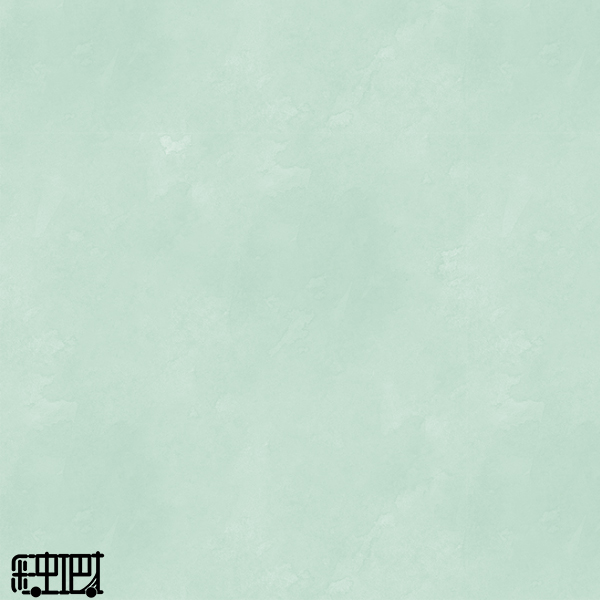
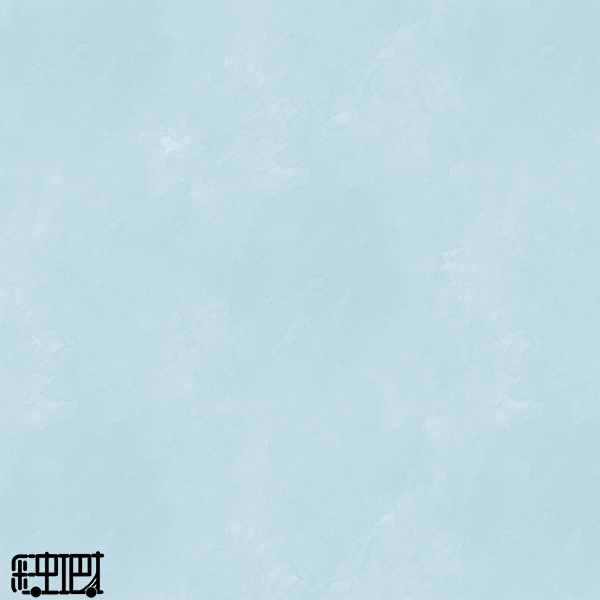
Add background pictures; add "Loading" tip

diff --git a/js/main.js b/js/main.js
@@ -45,6 +45,12 @@ $(function() {
 	var BOTTOM_URL = "img/car/bg/#1.png";
 	var TOP_URL = "img/car/fg/#1.png";
 	var AVATAR_SIZE = 256;
+	var LOADED_TEST_INTERVAL = 100;
+	var unfinished = 0;
+
+	function finishOne() {
+		unfinished--;
+	}
 
 	var avatarImg = undefined;
 
@@ -52,9 +58,7 @@ $(function() {
 		return "url(#1)".replace("#1", url);
 	}
 
-	var silenceMode = false;
-
-	function refreshAvatar() {
+	function doRefreshAvatar() {
 		var canvas = $("#avatar-canvas").get(0);
 		var result = $("#avatar-preview").get(0);
 		var ctx = canvas.getContext("2d");
@@ -75,22 +79,38 @@ $(function() {
 		result.src = canvas.toDataURL();
 	}
 
+	var scheduled = null;
+	function refreshAvatar() {
+		if (unfinished === 0) {
+			if (scheduled) {
+				clearInterval(scheduled);
+				scheduled = null;
+			}
+			doRefreshAvatar();
+		} else {
+			scheduled = scheduled || setInterval(refreshAvatar, LOADED_TEST_INTERVAL);
+		}
+	}
+
 	// change "color selection" controls' background
-	$(".set-bg").each(function() {
+	unfinished += $(".set-bg").each(function() {
 		var img = document.createElement("img");
 		var src = BG_URL.replace("#1", this.value);
+		img.onload = finishOne;
 		img.src = src;
 		$(this).parent().css("background-image", URLize(src));
 		$(this).data("bg", img);
-	});
-	$(".set-car").each(function() {
+	}).length;
+	unfinished += $(".set-car").each(function() {
 		var bgImg = document.createElement("img"), fgImg = document.createElement("img");
 		var key = this.value;
+		bgImg.onload = finishOne;
+		fgImg.onload = finishOne;
 		bgImg.src = BOTTOM_URL.replace("#1", key);
 		fgImg.src = TOP_URL.replace("#1", key);
 		$(this).parent().css("background-image", URLize(PV_URL.replace("#1", key)));
 		$(this).data({"bg": bgImg, "fg": fgImg});
-	});
+	}).length * 2;
 
 	$(".btn.my-picker").on("change", function() {
 		refreshAvatar();

diff --git a/index.html b/index.html
@@ -13,14 +13,9 @@
       <div class="container-fluid">
         <div class="row row-cols-5 justify-content-center text-center" id="bottle-container"></div>
       </div>
-      <div class="container-fluid text-center" id="qr-region" style="display: none;">
-      <img id="qrcode"></img>
-      <br>
-      扫描二维码，填写你自己的小瓶子
-      </div>
       <form id="bottle-info" autocomplete="off">
       <div class="row-sm text-center">
-        <img id="avatar-preview">
+        <img id="avatar-preview" src="img/loading.jpg">
       </div>
       <div class="row-sm">
         <span class="col w-100">请选择喜欢的背景 ↓</span>
@@ -46,6 +41,12 @@
         <label class="btn my-picker"><input type="radio" class="set-bg" name="car-bg" value="17"></label>
         <label class="btn my-picker"><input type="radio" class="set-bg" name="car-bg" value="18"></label>
         <label class="btn my-picker"><input type="radio" class="set-bg" name="car-bg" value="19"></label>
+        <label class="btn my-picker"><input type="radio" class="set-bg" name="car-bg" value="20"></label>
+        <label class="btn my-picker"><input type="radio" class="set-bg" name="car-bg" value="21"></label>
+        <label class="btn my-picker"><input type="radio" class="set-bg" name="car-bg" value="22"></label>
+        <label class="btn my-picker"><input type="radio" class="set-bg" name="car-bg" value="23"></label>
+        <label class="btn my-picker"><input type="radio" class="set-bg" name="car-bg" value="24"></label>
+        <label class="btn my-picker"><input type="radio" class="set-bg" name="car-bg" value="25"></label>
       </div>
       <div class="row-sm">
         <span class="col w-100">再选择喜欢的巴士 ↓</span>
